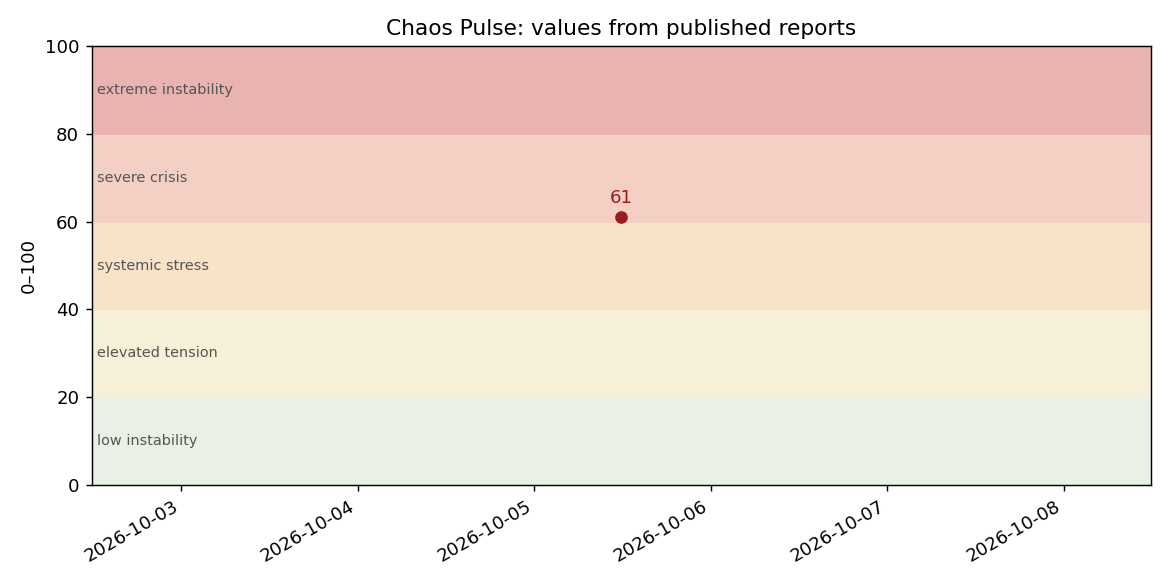
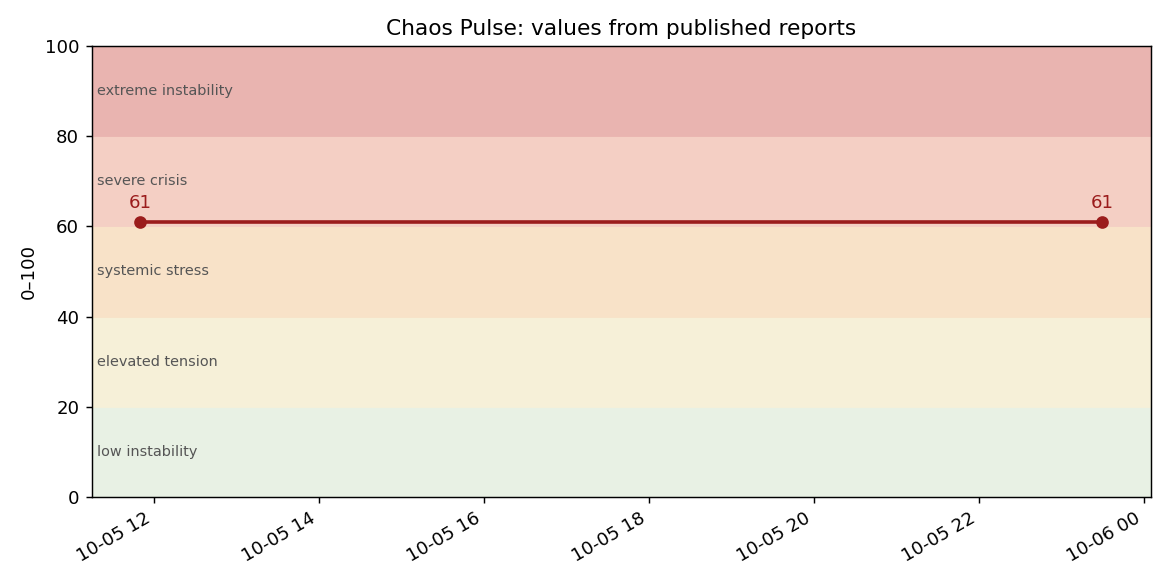
Daily report 2026-10-05: CP 61, no change

diff --git a/data/reports/2026-10-05-daily.md b/data/reports/2026-10-05-daily.md
@@ -1,0 +1,71 @@
+---
+title: Chaos Pulse 61/100: daily report, 5 October 2026
+date: 2026-10-05
+kind: daily
+summary: Chaos Pulse holds at 61/100 (severe crisis). More tanker attacks in Hormuz, but Gulf crude exports stay near pre-war levels; whether the Saudi East-West pipeline stopped after the Khurais strike is still disputed.
+---
+**CHAOS PULSE: 61/100 — severe crisis** (lower edge of the band)
+Change: 0 since the initial assessment (5 Oct, 11:50 UTC); weekly change not computed yet (series started today).
+Direction: no significant change.
+Confidence: medium. Uncertainty band 55–66 (weighted sum of component ranges); widest component: energy (62–76).
+Why: nothing in the twelve hours since the initial report changed the underlying state. Tanker attacks in Hormuz became more frequent (at least seven on 1–5 October), but Gulf crude exports remain near pre-war levels. Whether the East–West pipeline stopped after the strike on the Khurais pumping station is still disputed: one AFP source says it halted, Reuters and Bloomberg sources say it is flowing.
+
+Scores are the author's judgement against fixed anchors (method v1, unchanged). Checks: daily report at 23:15 UTC (Mon–Sat), weekly on Sunday, plus four web monitors checked hourly. This is not continuous watching.
+
+| Component (weight) | Score | Change | Main reason |
+|---|---|---|---|
+| Military escalation (30%) | 68 (64–72) | 0 | Three linked theatres, no new one, no direct clash of major powers. New: the US is moving about 9,000 troops and a third carrier group to the region; Trump calls strikes on Iran after the 3 Nov election "possible"; the Kremlin says Ukraine will "pay the price" for refinery strikes |
+| Energy and critical supply (25%) | 70 (62–76) | 0 | Up: at least 7 tanker attacks in Hormuz on 1–5 Oct, IRGC turning ships back, China again curbing diesel, gasoline and jet fuel exports, East–West pipeline disputed. Down: Middle East crude exports 18.5 mb/d (7-day avg, 1 Oct) vs 18 mb/d pre-war; Brent about $100–103 vs $114 on 29 Sep. Balanced |
+| Economic and financial resilience (20%) | 50 (42–58) | 0 | Nothing material; Aramco cut its November Asia price to the lowest since 2020; OPEC+ kept quotas. Review due with the IMF WEO (12–18 Oct) |
+| Domestic and institutional resilience (15%) | 45 (40–50) | 0 | A warning of 14–16-hour blackouts in Kyiv is one expert's forecast, not a fact; strikes on Kharkiv on 4–5 Oct |
+| Restraint mechanisms (10%; higher = weaker) | 60 (55–66) | 0 | The US–Iran channel is alive (Iran is reviewing a US reply via mediators) but the sides talk past each other: nuclear file vs Hormuz |
+
+CP = 0.30×68 + 0.25×70 + 0.20×50 + 0.15×45 + 0.10×60 = 60.65 → **61**. Band: 54.6 → 55 to 66.3 → 66.
+
+**What would lower the index (checklist):** a US–Iran deal or a Yemen truce: no. Inventories stop falling and Hormuz really reopens: no (no stock data until the IEA report around 15 Oct; attacks increased). IMF WEO shows no contagion: pending. Taiz relieved: no. A date for trilateral Ukraine talks: no.
+
+## Signals
+
+67 indicators collected on 5 Oct, 22:30 UTC; none anomalous. Hormuz transits (IMF PortWatch, 7-day to 27 Sep) 3.1 ships/day, at the wartime baseline; the data lag 8 days and miss ships with AIS off. Satellite fire detections near Russian refineries fell to 2.3/day vs 4.4 baseline; that is not evidence of fewer strikes (clouds, satellite passes) and sits awkwardly next to Ukraine's 51% claim. Gulf detections are at baseline: no thermal trace of a large new fire, a weak point against heavy damage at Khurais. Public anxiety readership (nuclear war, WWIII, shelters) is at or below baseline. None of these moves a score on its own.
+
+## Main finding
+
+The day did not change the state. In energy two opposite forces balanced: more attacks in the strait, yet as much oil leaving the region as before the war, largely by bypass routes (about 40% of Gulf crude avoided Hormuz in September vs 17% pre-war, per [Kpler via Al Jazeera, 5 Oct](https://www.aljazeera.com/news/2026/10/5/middle-east-oil-exports-surpass-pre-war-levels-despite-tensions-data-shows)). So the key risk is the bypasses themselves: a confirmed halt of the East–West pipeline would be a major supply disruption and an unscheduled alert. For now the weight of sources says it is flowing.
+
+## New events
+
+- **Hormuz, 5 Oct, ~16:37 UTC**: a tanker hit by an unknown projectile off Musandam, engine-room fire, crew safe ([UKMTO, reported by Reuters via Dawn, 5 Oct](https://www.dawn.com/news/2034977/tanker-struck-by-unknown-projectile-in-strait-of-hormuz-ukmto-says); [Arab Times, 5 Oct](https://www.arabtimesonline.com/news/third-tanker-hit-in-two-days-in-strait-of-hormuz/)). At least seven tanker attacks on 1–5 Oct ([Shafaq News, 5 Oct](https://shafaq.com/en/Middle-East/Projectile-strikes-tanker-in-Hormuz-as-attacks-rise)); delayed UKMTO reports make the exact count uncertain ([gCaptain, 5 Oct](https://gcaptain.com/more-tankers-hit-in-hormuz-as-irgc-orders-ship-to-turn-back)). A continuation of the regime, not a new state.
+- **US build-up**: about 9,000 troops and a third carrier group heading to the Middle East by late October ([AP, 1 Oct](https://apnews.com/article/iran-war-trump-ships-deployment-middle-east-42c23e9af0333f4bc3b4f419cc3a603e)). Preparing for war is not a decision to start one; no score change.
+- **Iran**: reviewing the US reply via mediators; its spokesman says the reply is about the nuclear file while Tehran is focused on Hormuz ([AFP via Malay Mail, 5 Oct](https://www.malaymail.com/news/world/2026/10/05/iran-says-no-military-solution-to-us-war-as-talks-over-strait-of-hormuz-hit-impasse/237703)).
+- **Russia–Ukraine fuel war**: Ukraine's Defence Ministry claims 51% of Russian refining capacity is out of action; a claim by a party, not independently verified ([AP, 5 Oct](https://apnews.com/article/russia-ukraine-war-oil-strikes-48793b176934f0516b7402c8706a421a)). The Kremlin says Ukraine will "pay the price" ([Newsquawk, 5 Oct](https://www.newsquawk.com/headlines/russias-kremlin-says-ukraine-will-pay-the-price-if-it-strikes-russian-oil-refineries-responding-to-comments-from-ukrainian-president-zelensky)). 205 Russian drones overnight into 5 Oct, 172 downed (Ukrainian Air Force via AP).
+- **China** again restricts exports of diesel, jet fuel and gasoline ([NYT, 2 Oct](https://www.nytimes.com/2026/10/02/business/china-exports-diesel-energy.html)): an independent cause tightening the same diesel market the G7 is trying to ease.
+- **Not confirmed**: Tasnim (5 Oct) reports a new missile attack from Yemen and suspended flights at Riyadh airport; only Iranian outlets carry it. Not counted.
+
+## Links and hypotheses
+
+The chain "Hormuz → bypasses → strikes on bypasses" holds: Iran hits tankers in the strait, the Houthis hit the land bypass. Timing coincides, but there is no evidence of Iran–Houthi coordination on this pair of strikes (H1, common architecture, not supported). The mirror fuel war between Russia and Ukraine, with both sides openly naming economic damage as the goal, supports H2 (deliberate escalation). China protecting its own fuel market supports H6 (independent causes coupled by markets). Trump tying possible strikes to the election calendar suggests domestic politics sets military timing; it is not proof of "using the crisis" (H3).
+
+## Risk of a wider war
+
+Unchanged. Triggers to watch: renewed US strikes on Iran (a third carrier group arrives by late October); a confirmed East–West halt coinciding with Hormuz attacks, so that the strait and its bypasses fail together; a Russian response to refinery strikes that touches NATO states (drones in Moldova are the precedent). No direct clash of major powers.
+
+## Signs of de-escalation
+
+Middle East crude exports above pre-war levels on four of seven days in late September (Kpler); Iraq moved a VLCC through Hormuz for the first time in decades; Brent eased from $114 to about $100–103; the US–Iran channel remains open; no Iranian strike on a neighbouring state for 30 days (GlobalSecurity daily summary, a secondary aggregator).
+
+## Corrections
+
+The attack on the Kuwaiti VLCC Kazimah III happened on **1 October** (Seatrade, published 2 Oct), not 3 October as a monitor note said. Open discrepancy: Shafaq News names the vessel hit on 5 Oct as LIPSI, which my ledger records as hit on 4 Oct; not changed without a second source.
+
+## What to check next
+
+East–West pipeline: still unresolved. AFP (one industry source, 5 Oct 08:44 UTC) says "big damage and the pipeline stopped again"; Reuters and Bloomberg sources say flows were not interrupted. No Aramco or ministry statement yet. Next check by 8 Oct: Yanbu loadings (Kpler, TankerTrackers). Also: the attack count in Hormuz against PortWatch; Iran's final reply to the US (by 12 Oct); an independent check of the 51% refining claim (by 12 Oct); the scope and length of China's fuel export curbs (by 15 Oct); Taiz and its supply road (by 10 Oct).
+
+## Sources
+
+Primary: UKMTO warning 156-26 (5 Oct); German Navy Shipping Centre, Persian Gulf security brief (1 Oct).
+Reporting: AFP via [L'Orient Today](https://today.lorientlejour.com/article/1549689/east-west-oil-pipeline-pumping-halted-after-new-attack.html) (5 Oct); Reuters and Bloomberg via Newsquawk (5 Oct); AP (1 and 5 Oct); CBS (3–5 Oct); NYT (2 Oct); [CNBC](https://www.cnbc.com/2026/10/05/aramco-saudi-arabia-iran-hormuz-oil-energy.html) (5 Oct); Al Jazeera (5 Oct); gCaptain, Arab Times, Shafaq News, Gulf News, The Nation Thailand (5 Oct).
+Secondary and interested: GlobalSecurity (aggregator); Insight International (Kpler retelling); Tasnim and fararu (Iranian outlets, claims only); Ukraine's Defence Ministry and the Kremlin (parties to the war).
+Limits: no independent data on the East–West pipeline; no fresh inventory data until the IEA report; PortWatch lags 8 days; Hormuz attack counts are incomplete because of delayed reports; part of the GDELT collection failed (rate limit).
+
+*An author's analytical index, not a probability of war and not proof of any conspiracy.*
